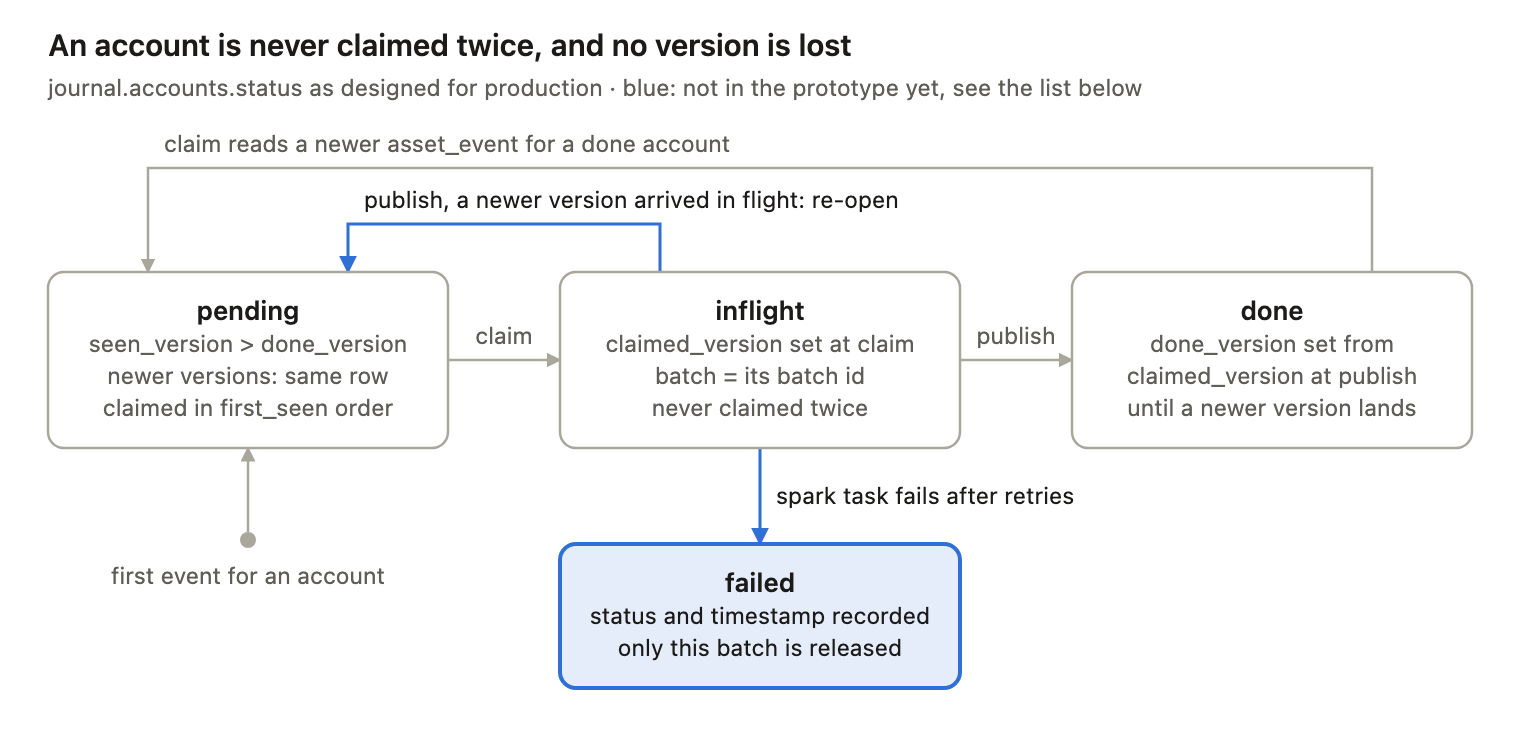
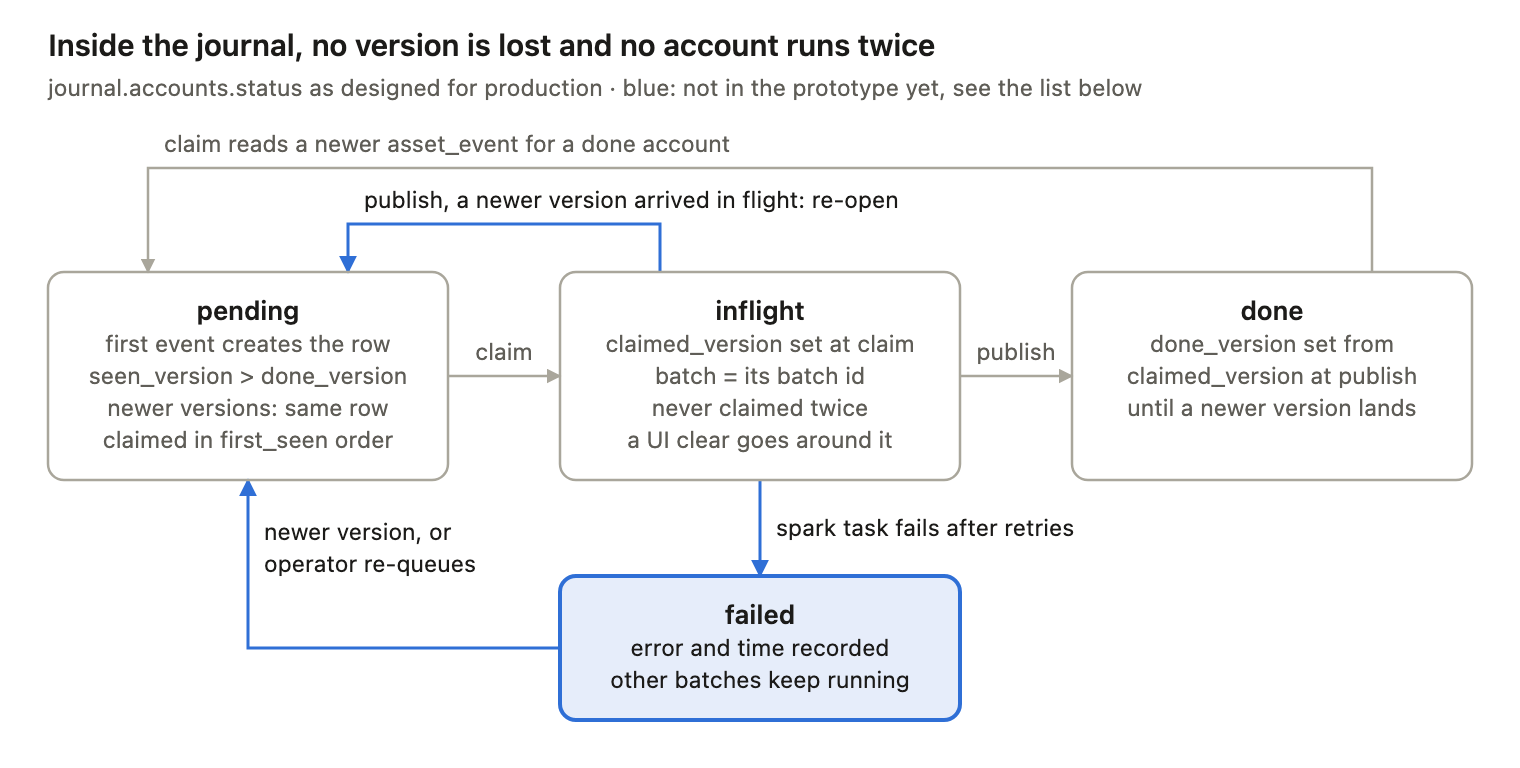
two-grains-one-bucket.md: apply the verified review (12 findings, each re-checked against logs, DB and source)
- wall 2: as shipped, 80,900 of 100,000 tasks succeeded but only 3,698 runs were marked done; the scheduler examines never-seen runs first, so finished runs starved while creation continued. Dropped the "about 2.8 h" extrapolation. Index and second scheduler changed together in 2b, so the index's own share is unmeasured.
- Path C still pays per key: up to 12 concurrent 500-key producers, 195 of 200 requests over 5 s, worst 38.5 s, 3 processes killed. "~900 keys per task" now scoped to one emitter on an empty table (about 700-950).
- watermark: an event is visible only at commit (up to 38 s after its timestamp), so the 5 s overlap can skip events; known gap.
- balance sheet listens to separate unkeyed assets; a keyed event never wakes a non-partitioned Dag on 3.3.
- per-account latency at 100k (p50 27 min, p95 37 min, dispatcher-bound); the engine was a sleep.
- failed state gets an exit (newer version or operator re-queue); a UI clear of a batch task goes around claim; both known gaps.
- 54,000-run story: the partitioned consumer was on the output asset, left on as a lineage check.
- E6 gate made per-date; run merging marked as read from source, not exercised; version-order evidence is concurrent producers (E2), not retries.
- throughput window, Kafka commit_offset default, row provenance (local DB, not committed), full batch ids.

diff --git a/docs/two-grains-one-bucket.md b/docs/two-grains-one-bucket.md
@@ -6,11 +6,11 @@ October 1, 2026 · a design note for review
 
 **Trigger at account granularity, execute at batch granularity, and put a leaky bucket between the two.** In Airflow terms: producers emit keyed `AssetEvent`s (`partition_key` = firm account), but no Dag subscribes to them per partition; a batcher Dag drains a journal table of pending accounts into mapped tasks capped by a pool; balance sheet stays on an OR schedule with a version-aware gate.
 
-The reason is the scheduler. Native account-grain partitions mean one `DagRun` per account, and the scheduler pays per run: 100,000 one-task runs cost 0.7 to 1.1 hours of scheduler time a day as a lower bound. As shipped, a 100,000-account test finished 3,698 runs in 26 minutes before it was stopped.
+The reason is the scheduler. Native account-grain partitions mean one `DagRun` per account, and the scheduler pays per run: 100,000 one-task runs cost 0.7 to 1.1 hours of scheduler time a day as a lower bound. As shipped, on one scheduler, a 100,000-account test was stopped after 26 minutes with only 3,698 runs marked finished: 80,900 of their tasks had succeeded, but the scheduler was busy creating and starting new runs. With three extra indexes and a second scheduler, all 100,000 finished in 31 minutes, about one scheduler-hour. MWAA's managed database does not let us add those indexes.
 
 This asks for two things. A decision to build the journal and a continuously running dispatcher, then test them on a firm MWAA environment. And two answers from the data side: what an absent account means in the positions feed, and where the list of accounts expected on a business date comes from.
 
-Everything here was measured on Airflow 3.3.2 with Postgres 16 and the LocalExecutor on a laptop. Nothing has run on MWAA yet, and the prototype has known gaps, listed in section 8.
+Everything here was measured on Airflow 3.3.2 with Postgres 16 and the LocalExecutor on a laptop. The engine was a stand-in: each Spark job in the prototype is a sleep of start-up time plus per-account time. Nothing has run on MWAA yet, and the prototype has known gaps, listed in section 8.
 
 ## 1. Vocabulary
 
@@ -39,7 +39,7 @@ Every later section uses these names. The table column is where the thing lives 
 
 ## 2. How Airflow 3.3 turns data into runs
 
-An asset update becomes a run by one of three paths, and the path depends on two things: whether the `AssetEvent` carries a `partition_key`, and whether any Dag subscribes to that asset per partition. All rows below are real rows from the test database.
+An asset update becomes a run by one of three paths, and the path depends on two things: whether the `AssetEvent` carries a `partition_key`, and whether any Dag subscribes to that asset per partition. All rows below are real rows, read from the local test database (Postgres) after the runs. They are not committed to the repository.
 
 ![One asset_event, three paths to a run](img/two-grains-paths.png)
 
@@ -71,7 +71,7 @@ The queue still holds two rows from the AND experiment. The consumer `exp_e2_con
 | 4 | exp\_e2\_consumer\_and | 2026-09-30 15:43:01 |
 | 2 | exp\_e2\_consumer\_and | 2026-09-30 15:43:31 |
 
-**Path B: keyed event, partitioned consumer (native account grain).** A keyed event writes no queue row. Instead, a Dag with `PartitionedAssetTimetable` gets one `asset_partition_dag_run` (APDR) row per key, a `partitioned_asset_key_log` (PAKL) row linking it to the event, and then one `DagRun` per key. One account `ACCT00000937` from the 100k test, followed through five tables:
+**Path B: keyed event, partitioned consumer (native account grain).** A keyed event writes no queue row. Instead, a Dag with `PartitionedAssetTimetable` gets one `asset_partition_dag_run` (APDR) row per key, a `partitioned_asset_key_log` (PAKL) row linking it to the event, and then one `DagRun` per key. Below, one account, `ACCT00000937`, is followed through five tables. It comes from the 100k run with the extra indexes and two schedulers (section 3, wall 2b); the as-shipped run's rows are no longer in the database.
 
 | Table | id | Key columns |
 | --- | --- | --- |
@@ -83,7 +83,7 @@ The queue still holds two rows from the AND experiment. The consumer `exp_e2_con
 
 Multiply by 100,000 accounts a day: 100,000 rows in each of these tables and 100,000 `DagRun`s for the scheduler to drive. Section 3 shows what that costs.
 
-**Path C: keyed event, no partitioned consumer (this design).** The api-server writes the `asset_event` rows and nothing else: no queue row, because the event is keyed; no APDR row, because nobody subscribes per partition. Airflow schedules nothing. The batcher Dag reads these rows on its own cadence.
+**Path C: keyed event, no partitioned consumer (this design).** The api-server writes the `asset_event` rows and nothing else: no queue row, because the event is keyed; no APDR row and no asset row lock, because nobody subscribes per partition. Airflow schedules nothing, and a Dag scheduled on the asset without `PartitionedAssetTimetable` gets no run either. The batcher Dag reads these rows on its own cadence. Each key is still one `asset_event` insert inside the producer's task-success request, so that request grows with the number of keys (section 4, producer cost).
 
 | `asset_event`.id | asset | partition\_key | extra | source\_dag\_id |
 | --- | --- | --- | --- | --- |
@@ -91,11 +91,11 @@ Multiply by 100,000 accounts a day: 100,000 rows in each of these tables and 100
 | 547609 | rev5\_positions | ACC100040 | `{"version": 1}` | rev5\_producer |
 | 547608 | rev5\_positions | ACC100039 | `{"version": 1}` | rev5\_producer |
 
-The rule that keeps Path C in place: no Dag may put `PartitionedAssetTimetable` on these assets. In the first 100k batcher test a per-partition test consumer was switched on and turned Path C back into Path B, creating 54,000 runs.
+The rule that keeps Path C in place: no Dag may put `PartitionedAssetTimetable` on any asset this design emits keyed events on, including the pnl output that `publish` writes. In the first 100k batcher test, a partitioned consumer on that output asset (`rev5_pnl_consumer`, left on as a lineage check) created one run per published account, 54,000 runs, on the same scheduler. The input events stayed on Path C. Airflow does not block such a Dag by default. A cluster policy (`dag_policy`) could reject it at parse time, but that was not tested.
 
 ## 3. Why one run per account fails at 100,000
 
-The scheduler pays per `DagRun`, and Path B gives it one per account. Three walls were measured; the second is the one no index removes.
+The scheduler pays per `DagRun`, and Path B gives it one per account. Three walls were measured. The per-run cost behind the second is the one no index removes.
 
 **The scheduler loop.** Each loop of `SchedulerJobRunner._do_scheduling` creates new `DagRun`s (for partitioned consumers, at most `MAX_PARTITION_DAG_RUNS_PER_LOOP` = 500 APDR rows per loop), examines up to `max_dagruns_per_loop_to_schedule` running `DagRun`s (default 20; the tests used 200), and moves ready `TaskInstance`s to queued inside a critical section. The executor runs in the same process and the same loop. Each look at a run schedules every task whose upstream is done, so the number of looks follows the longest chain of tasks:
 
@@ -108,9 +108,9 @@ A one-task run, which needs two looks, measured 25 to 40 ms of scheduler time in
 | Wall | Shape | Measured | Limit it hits |
 | --- | --- | --- | --- |
 | 1 | 100,000 mapped `TaskInstance`s in one `DagRun` | Expansion blocks the scheduler loop 315 s (10k: 60 s, 30k: 114 s); an upstream backport cuts 100k to 173 s | `scheduler_health_check_threshold` = 30 s; a health probe would restart the scheduler mid-transaction |
-| 2 | One `DagRun` per account (Path B), as shipped | 3,698 of 100,000 runs finished in 26 min, at 3 to 10 runs/s; about 2.8 h at the best rate | Per-run scheduler cost |
-| 2b | Same, with three hand-made indexes and two schedulers | All 100,000 finished in 31 min, about 110 runs/s | Needs DB access MWAA does not give |
-| 3 | Registering 500 keys in one task-success call | 3.6 s on an empty APDR table, 7.0 s at 64,000 rows; about 5 ms per key under an asset row lock | `[workers] execution_api_timeout` = 5 s; clients retry; at most about 900 keys per task |
+| 2 | One `DagRun` per account (Path B), as shipped | Stopped after 26 min: all 100,000 runs created and 80,900 of their tasks succeeded, but only 3,698 runs marked finished | Per-run scheduler cost on one scheduler. It looks at never-examined runs first, so while new runs kept arriving it did not get back to mark finished runs done |
+| 2b | Same, with three hand-made indexes and two schedulers | All 100,000 finished in 31 min, about 110 runs/s once run creation stopped | The index needs DB access MWAA does not give; the run also used a second scheduler |
+| 3 | Registering 500 keys in one task-success call | 3.6 s on an empty APDR table, 7.0 s at 64,000 rows; about 5 ms per key under an asset row lock | `[workers] execution_api_timeout` = 5 s; clients retry. One emitter on an empty table reaches 5 s at about 700 to 950 keys; at 64,000 rows even 500 keys do not fit |
 
 **Why wall 3 grows with the table.** For every emitted key, `AssetManager._get_or_create_apdr` looks up the latest APDR row for that key, and every scheduler loop scans for pending rows. On Airflow 3.3 neither query has an index. Measured on a fresh Postgres 16 database with 100,000 APDR rows, using the same ORM expressions as Airflow main:
 
@@ -178,7 +178,7 @@ rows in APDR   seconds per 500-key request   (█ = 0.25 s; the 5 s execution_ap
 
 In the live 100,000-key run the request passed the 5-second client timeout at about 36,000 rows, and clients began to time out and retry. The index, created online mid-run, brought the next request back to 3.9 s.
 
-The index fixes wall 3 and part of wall 2b, but MWAA's managed database does not let us add it, and it does nothing for wall 2: 100,000 runs still cost 100,000 runs of scheduler work.
+The index fixes wall 3, but MWAA's managed database does not let us add it. It does not remove wall 2: every run still costs scheduler work, and finishing 100,000 runs in 31 minutes also took a second scheduler. Wall 2b changed both at once, so the index's own share of that gain was not measured.
 
 ## 4. The design: two grains, one bucket
 
@@ -190,8 +190,10 @@ Three pieces: a producer that tags accounts on its events, a journal table that 
 @task(outlets=[POSITIONS])
 def land(params=None, *, outlet_events=None):
     outlet_events[POSITIONS].extra = {"version": int(params["version"])}
-    outlet_events[POSITIONS].add_partitions(list(params["accounts"]))   # <= ~900 keys per task
+    outlet_events[POSITIONS].add_partitions(list(params["accounts"]))   # 500 keys per task in the 100k test
 ```
+
+**Producer cost.** Path C has no APDR lookup and no asset lock, but each key is still written inside the producer's task-success request. In the 100k batcher test up to 12 producers registered 500 keys each at the same time. 195 of 200 of those requests took longer than the 5 s `execution_api_timeout` (median 11.5 s, worst 38.5 s), and clients sent 395 retries. 3 producer processes were killed, although every `TaskInstance` ended success and all 100,040 events landed. The 600-key `publish` requests took 2.4 to 12.1 s, and 102 of 140 passed 5 s. A safe number of keys per task with concurrent producers has not been measured.
 
 **Journal table (the bucket).** One row per account. Repeated versions of an account that arrive while it waits collapse into one row. Production needs `claimed_version`, which the prototype lacks (section 5).
 
@@ -213,8 +215,8 @@ Real rows from the 100k test, taken when the 40-minute window closed (84,000 don
 | account | status | seen\_version | done\_version | first\_seen | batch |
 | --- | --- | --- | --- | --- | --- |
 | ACC00001 | done | 1 | 1 | 20:02:43 |  |
-| ACC00167 | inflight | 1 | -1 | 20:07:00 | `scheduled__2026-09-30T20:45:00#1` |
-| ACC00170 | inflight | 1 | -1 | 20:07:09 | `scheduled__2026-09-30T20:45:00#5` |
+| ACC00167 | inflight | 1 | -1 | 20:07:00 | `scheduled__2026-09-30T20:45:00+00:00#1` |
+| ACC00170 | inflight | 1 | -1 | 20:07:09 | `scheduled__2026-09-30T20:45:00+00:00#5` |
 | ACC00178 | pending | 1 | -1 | 20:07:24 |  |
 
 **Batcher Dag (the dispatcher).** One `DagRun` per tick; inside it, `claim` returns a list of batches through XCom, one mapped `spark` task runs per batch on the `spark_jobs` pool, and one mapped `publish` task per batch closes it.
@@ -252,7 +254,7 @@ b_{sla} = \frac{target - S}{1/\lambda + p}
 | Run, retry and log every batch as a `TaskInstance` | `claim`: upsert from events, atomic claim, batch sizing |
 | Cap running batches with a pool of K slots | `publish`: mark done, emit lineage |
 | Wait on Glue or Spark without holding a worker (deferrable operators) | The rule that the journal holds no timing, dependency or retry logic |
-| UI, run history, clear and rerun of a batch | Cleanup of closed accounts |
+| UI and run history for every batch, and task retries while a batch is in flight | Cleanup of closed accounts |
 
 ## 5. Overlapping reruns, row by row
 
@@ -260,7 +262,7 @@ The journal answers the overlap question with three rules: an account in flight 
 
 ![Journal row lifecycle](img/two-grains-journal-states.png)
 
-<sub>journal.accounts row lifecycle · 4 states, 2 transitions still to build · vector: [two-grains-journal-states.svg](img/two-grains-journal-states.svg)</sub>
+<sub>journal.accounts row lifecycle · 4 states, 3 transitions still to build · vector: [two-grains-journal-states.svg](img/two-grains-journal-states.svg)</sub>
 
 <details><summary>Text version of this figure</summary>
 
@@ -269,15 +271,16 @@ The journal answers the overlap question with three rules: an account in flight 
 | (no row) | first event for an account | `pending` | yes |
 | `pending` | newer version read | `pending`, same row, `seen_version` rises | yes |
 | `pending` | `claim` (`FOR UPDATE SKIP LOCKED`) | `inflight`, `claimed_version` set | yes, without `claimed_version` |
-| `inflight` | newer version read | `inflight`, `seen_version` rises, never claimed twice | yes |
+| `inflight` | newer version read | `inflight`, `seen_version` rises, never claimed twice by `claim` | yes; a UI clear of a batch task goes around it |
 | `inflight` | `publish`, no newer version | `done`, `done_version` = `claimed_version` | yes |
 | `inflight` | `publish`, a newer version arrived in flight | `pending` (re-open) | **no**: the prototype marks it done |
-| `inflight` | spark task fails after retries | `failed`, status and timestamp recorded, only this batch released | **no**: the prototype returns every batch of the run to pending |
+| `inflight` | spark task fails after retries | `failed`, error and time recorded, other batches keep running | **no**: the prototype returns every batch of the run to pending |
+| `failed` | a newer version arrives, or an operator re-queues | `pending` | **no**: no failed state; the account is claimed again every tick |
 | `done` | `claim` reads a newer `asset_event` | `pending` | yes |
 
 </details>
 
-The two blue paths are the fixes listed under the scenario. Today the prototype marks an account done even when a newer version arrived in flight, and on a failure it returns every batch of the run to pending.
+The three blue paths are the fixes listed under the scenario. Today the prototype marks an account done even when a newer version arrived in flight. When one batch fails it returns every batch of the run to pending, and with no failed state a failing account is claimed again on every tick.
 
 The scenario: accounts 1, 2 and 3 are running in batch A; an adjustment for 3 and 4 arrives, then one for 4 and 5. Each cell shows the journal row for that account: status, then seen / claimed / done version. Accounts 1 and 2 only finish with batch A and are left out.
 
@@ -290,11 +293,11 @@ The scenario: accounts 1, 2 and 3 are running in batch A; an adjustment for 3 an
 | 4 | Batch A publishes (it computed version 1 of account 3) | fix: **pending** · 2 / 1 / **1** | inflight · 3 / 2 / 1 | claimed into batch C |
 | 5 | Batch B publishes (it computed version 2 of account 4) | claimed into batch D | fix: **pending** · 3 / 2 / **2** | inflight |
 
-- **Never twice at once.** Account 3 is in flight at step 1, so `claim` skips it; the row lock and the `inflight` status make that atomic across batcher runs.
+- **Never twice at once.** Account 3 is in flight at step 1, so `claim` skips it; the row lock and the `inflight` status make that atomic across batcher runs. This holds for work that claim dispatches. Clearing a spark or publish task in the Airflow UI goes around claim: the task reruns the account list stored in XCom, even if those accounts are now in flight in another batch, and in the prototype publish then marks them done whatever batch holds them. The fix passes the batch id to spark and publish, and both act only on rows still inflight under that id. To recompute accounts, return them to pending in the journal instead of clearing an old task. Not built yet.
 - **No head-of-line blocking.** Account 4 starts in batch B at step 2 while batch A is still running.
 - **Coalescing.** Had account 4 been pending when versions 2 and 3 arrived, they would have become one recompute on version 3.
 - **The prototype's gap.** At step 4 the prototype sets `done_version = seen_version`, writing 2 for account 3 although batch A computed version 1. Version 2 is then never computed. The fix records `claimed_version` at claim time, sets `done_version = claimed_version` at publish, and re-opens the row when `seen_version > done_version`. Not written or tested yet; this scenario is the proposed test case.
-- **Failures.** In the prototype, one failed batch returns every batch of its run to pending, including batches still running, which could compute an account twice. The fix releases only the failed batch and records `status = failed` with a timestamp.
+- **Failures.** In the prototype, one failed batch returns every batch of its run to pending, including batches still running, which could compute an account twice. The next `claim` then takes the failed accounts again with no limit, so an account that always fails is retried on every tick. The fix touches only the failed batch: its accounts move to `failed` with the error and a timestamp, and the other batches keep running. A failed account goes back to pending only when a version newer than the failed one arrives or an operator re-queues it. Retries stay with Airflow task retries, so the journal holds no retry logic. Not built yet.
 
 Throughput is the cost of rule one: account 3 waits for batch A even though its new version is known. With a continuously running dispatcher that wait is one batch duration (in the prototype's trickle runs, a 15 to 20 s job); with the prototype's one-minute cron it is up to a minute more.
 
@@ -303,19 +306,25 @@ Throughput is the cost of rule one: account 3 waits for batch A even though its 
 Balance sheet aggregates across accounts, so it uses no bucket: any input arrival wakes the Dag, and a gate task decides whether the business date can be computed and with which versions. A late version 2 of one input reruns the whole date with that version and the latest of everything else, which the native AND schedule cannot do (section 2, Path A).
 
 ```python
-@dag(schedule=(rates | fx | positions | cashflows), max_active_runs=1)
+@dag(schedule=(rates | fx | bs_positions | bs_cashflows), max_active_runs=1)
 def bs_pnl():
-    @task.short_circuit(inlets=[rates, fx, positions, cashflows])
-    def gate(inlet_events=None):
-        as_of = ...                                   # business date of the triggering event
-        latest = {name: max((e for e in inlet_events[a] if e.extra["as_of"] == as_of),
-                            key=lambda e: e.extra["version"], default=None)
-                  for name, a in INPUTS.items()}
-        return all(latest[n] for n in ("rates", "fx")) and any(latest[n] for n in ("positions", "cashflows"))
-    gate() >> calc()                                   # calc reads the chosen versions, emits bs_pnl_out
+    @task.short_circuit(inlets=[rates, fx, bs_positions, bs_cashflows])
+    def gate(inlet_events=None, triggering_asset_events=None):
+        dates = sorted({e.extra["as_of"] for evs in triggering_asset_events.values() for e in evs})
+        plans = []
+        for as_of in dates:                              # one run can carry several business dates
+            latest = {name: max((e for e in inlet_events[a] if e.extra["as_of"] == as_of),
+                                key=lambda e: e.extra["version"], default=None)
+                      for name, a in INPUTS.items()}
+            if all(latest[n] for n in ("rates", "fx")) and any(latest[n] for n in ("positions", "cashflows")):
+                plans.append({"as_of": as_of, "inputs": latest})
+        return plans                                     # empty list: calc is skipped
+    calc.expand(plan=gate())                             # one calc per ready date, emits bs_pnl_out
 ```
 
-The rule here is "all reference inputs (rates, fx) and at least one root input (positions, cashflows)". Every arrival creates a `DagRun`; `max_active_runs=1` makes arrivals during a run wait and merge into the next one. The real runs from the experiment, one per arrival:
+Balance sheet does not listen to the keyed positions asset that revenue uses. On Airflow 3.3 a keyed event writes no `asset_dag_run_queue` row, so it never starts a Dag without `PartitionedAssetTimetable` (in experiment E4 such a consumer got 0 runs). Balance sheet listens to separate unkeyed assets with one event per load, as the experiment did with `bs_root_positions` and `bs_root_cashflows`. This also keeps 100,000 keyed events a day out of the gate's `inlet_events` read.
+
+The rule here is "all reference inputs (rates, fx) and at least one root input (positions, cashflows)". In E6 every arrival got its own `DagRun`, because the driver waited for each run to finish before landing the next input. Airflow's source shows that arrivals landing while a run is active under `max_active_runs=1` wait and are released together as one later run, which can carry several business dates; E6 did not exercise that case. The gate above therefore checks each date separately. That per-date gate is in the repository but was written after the E6 run and has not run yet; the E6 run used a gate that took only the latest date. The real runs from the experiment, one per arrival:
 
 | Time | Event that woke the Dag | `gate` decision | `calc` | Output event `extra` |
 | --- | --- | --- | --- | --- |
@@ -330,7 +339,7 @@ The rule here is "all reference inputs (rates, fx) and at least one root input (
 
 Three details the gate has to get right, all learned in the experiments:
 
-- **Take the highest `extra.version`, not the last event.** `inlet_events[asset][-1]` is the last event registered, which a retried producer can make an older version.
+- **Take the highest `extra.version`, not the last event.** `inlet_events[asset][-1]` is the last event registered, and when producers run concurrently that need not be the newest version. In experiment E2, five concurrent producer runs registered v3 to v7 in the order v5, v7, v6, v4, v3, so \[-1\] returned v3.
 - **Page the event read.** `inlet_events` is unbounded; 10,000 events took 7.6 to 9.1 s, past the 5 s Execution API timeout. Read with `.after(watermark).limit(...)`.
 - **Skipped runs are the cost.** Eight runs, four of which computed; each is a `dag_run` row and a few `task_instance` rows. Fine at a few inputs per day, not at 100,000 accounts, which is why revenue uses the bucket.
 
@@ -372,21 +381,26 @@ Today the gate's decision exists only in its task log, and `claim` logs only cou
 
 ## 8. Measured, designed, open
 
-Nine of the claims in this doc were measured or simulated; two are known gaps in the prototype; two are designed but not built; five are open questions, two of which only the data side can answer. Evidence links go to the public test repository.
+Eleven of the claims in this doc were measured or simulated; five are known gaps in the prototype; two are designed but not built; five are open questions, two of which only the data side can answer. Evidence links go to the public test repository. The table rows quoted in sections 2, 4 and 7 come from the local test database, not from files in the repository.
 
 | Claim | Evidence | Status |
 | --- | --- | --- |
 | 100,000 mapped `TaskInstance`s in one `DagRun` block the scheduler loop 315 s | [REPORT §4.1](../REPORT.md) | Measured |
-| One `DagRun` per account as shipped: 3,698 of 100,000 finished in 26 min, 3 to 10 runs/s | [REPORT §4.2](../REPORT.md) | Measured |
+| One `DagRun` per account as shipped, one scheduler: stopped after 26 min with 3,698 of 100,000 runs marked finished while runs were still being created | [REPORT §4.2](../REPORT.md) | Measured |
 | Same with three hand-made indexes and two schedulers: 31 min | [REPORT §4.2a](../REPORT.md) | Measured |
-| Registering 500 keys: 3.6 s empty, 7.0 s at 64,000 APDR rows; about 900 keys per task at most | [REPORT §4.2](../REPORT.md) | Measured |
+| Registering 500 keys with one emitter (Path B): 3.6 s empty, 7.0 s at 64,000 APDR rows | [REPORT §4.2](../REPORT.md) | Measured |
 | 100,000 accounts as 100 batches of 1,000 in one `DagRun`: 38 s | [REPORT §4.5](../REPORT.md) | Measured |
-| Bucket at 100k: 84,000 of 100,040 published in 40 min; about 2,800 a minute against 13,000 of capacity | [dynamic-batching §5a](dynamic-batching.md) | Measured |
+| Bucket at 100k: 84,000 of 100,040 published when the 40-minute window closed. None before 20:15 while claim ingested the burst, then about 2,800 a minute. The stand-in engine (a sleep, K = 10) could take about 13,000 a minute | [dynamic-batching §5a](dynamic-batching.md) | Measured |
+| Per-account latency at 100k, input event to published event: p50 27 min, p95 37 min over the 84,000 published; the 16,040 not yet published would raise both. Engine slots were never the limit; slow claim ticks during ingestion and the one-minute cron were | dynamic-batching §5a; asset\_event timestamps | Measured |
+| Path C with up to 12 concurrent 500-key producers: 195 of 200 requests over the 5 s timeout, worst 38.5 s, 3 producer processes killed | api-server log of the 100k batcher test | Measured |
 | `claim` took 36 to 388 s per tick while 200 producers were registering keys | [dynamic-batching §5a](dynamic-batching.md) | Measured |
 | Engine start-up sets latency: 60 s start-up misses a 2-min burst p95 (best 7.2 min); about 10 s meets it | [dynamic-batching §2](dynamic-batching.md) | Simulated |
 | Balance sheet: OR schedule plus gate recomputes the date on a late version 2 | Section 6, experiment E6 | Measured |
 | A version arriving while its account is in flight is marked done without being computed | `ledger_pg.py` `done()`; section 5 | Known gap |
 | One failed batch releases every batch of its run, including running ones | `release` task; section 5 | Known gap |
+| The watermark read can skip an event that commits more than 5 s after its timestamp | claim in exp\_e5\_dynamic\_batcher.py; section 9 | Known gap |
+| A failed account is claimed again on every tick, with no limit | release task; section 5 | Known gap |
+| Clearing a batch task in the UI reruns its accounts outside claim, and publish marks them done whatever batch holds them | ledger\_pg.py done(); section 5 | Known gap |
 | Continuous dispatcher that claims as slots free up | [design-core §3](design-core.md) | Designed, not built |
 | Status view, reason column and failed state | Section 7 | Designed, not built |
 | Journal in RDS or DynamoDB, written from MWAA workers | Prototype used a schema in the local Postgres | Open question |
@@ -402,7 +416,7 @@ The batcher is a Kafka consumer in shape, and the half that comes for free is re
 | Kafka | This design |
 | --- | --- |
 | Keyed messages on a topic | `asset_event` rows with `partition_key` |
-| Consumer offset | Watermark: timestamp of the last event read, re-read with a 5 s overlap, advanced at `claim` before processing |
+| Consumer offset | Watermark: timestamp of the last event read, re-read with a 5 s overlap, advanced at `claim` before processing. Unlike an offset it can skip an event: a row becomes visible only when its producer's request commits, up to 38 s after its timestamp in the 100k test |
 | Kafka Streams KTable, latest value per key (log compaction alone is lazy; a live consumer still reads every version) | Journal row per account, coalesced on write |
 | Poll and batch | `claim` and batch sizing |
 | Pull pace (`max.poll.records`, `pause()`/`resume()`), parallelism bounded by partitions | Pool of K slots |
@@ -412,11 +426,11 @@ The batcher is a Kafka consumer in shape, and the half that comes for free is re
 | --- | --- | --- |
 | Native | Triggering, retries, deferrable waits on Spark or Glue, run history, UI, lineage; same platform as balance sheet; offered as MWAA | Offsets, consumer groups, millisecond delivery, per-key state through Kafka Streams |
 | We write | The journal and `claim` / `publish` | Launching and retrying engine jobs, recording what each batch ran, a UI, lineage |
-| Latency floor | About a minute in the prototype: trickle p95 77 s including a 15 to 20 s job | Milliseconds of delivery |
+| Latency floor | About a minute in a 60-account trickle run with K = 3: p95 77 s, each job a 15 to 20 s sleep standing in for the engine. At 100k the one-minute dispatcher set the pace: p95 37 min | Milliseconds of delivery |
 
-The millisecond advantage pays off only with a fast engine. In the simulator (a 10,000-account burst, then 1 account/s, K = 20) burst latency is set by engine capacity and trickle latency by engine start-up: with 60 s start-up the best burst p95 is 7.2 min whatever the message path; with about 10 s, SLA-sized batches meet 2 minutes in both phases.
+The millisecond advantage pays off only with a fast engine. In the simulator (a 10,000-account burst, then 1 account/s, K = 20) burst latency is set by engine capacity and trickle latency by engine start-up: with 60 s start-up the best burst p95 is 7.2 min whatever the message path; with about 10 s, SLA-sized batches meet 2 minutes in both phases. The prototype did not reach this. At 100k with 15 s start-up its p95 was 37 min, because the one-minute cron dispatcher set the pace, not engine capacity.
 
-A hybrid exists in principle. An `AssetWatcher` with the common.messaging provider's `MessageQueueTrigger` runs in the triggerer and wakes a Dag from Kafka, SQS, Redis pub/sub, Google Pub/Sub, Azure Service Bus or IBM MQ (Kinesis is merged but not released; MWAA 3.3.1 bundles Amazon provider 9.34.0). Two differences from the keyed path: a watcher's event carries no `partition_key`, so the account travels in `extra["payload"]`; and the Kafka trigger commits each offset before Airflow records the event, one message per trigger run. Not tried here, and not on MWAA.
+A hybrid exists in principle. An `AssetWatcher` with the common.messaging provider's `MessageQueueTrigger` runs in the triggerer and wakes a Dag from Kafka, SQS, Redis pub/sub, Google Pub/Sub, Azure Service Bus or IBM MQ (Kinesis is merged but not released; MWAA 3.3.1 bundles Amazon provider 9.34.0). Two differences from the keyed path: a watcher's event carries no `partition_key`, so the account travels in `extra["payload"]`; and by default the Kafka trigger commits each offset before Airflow records the event, one message per trigger run. The Kafka provider (1.13.0 and later) accepts commit\_offset=False through MessageQueueTrigger, which leaves the commit to downstream tasks. Not tried here, and not on MWAA.
 
 ## 10. Decisions and questions
 
@@ -425,7 +439,7 @@ Four decisions move this forward, and five questions need someone other than the
 **Decisions needed**
 
 - [ ] Revenue at account grain uses the two-grain design: keyed events, a journal, a batcher Dag; no one `DagRun` per account.
-- [ ] Next build: `claimed_version`, a `failed` state, a continuously running dispatcher, and the reason column; the overlap scenario in section 5 is the acceptance test.
+- [ ] Next build: `claimed_version`, a `failed` state, a continuously running dispatcher, the reason column, batch-id checks in publish, and a read position that cannot skip late commits; the overlap scenario in section 5 is the acceptance test.
 - [ ] Run it on a firm MWAA environment wired to the revenue demo, which answers the MWAA questions in section 8.
 - [ ] Where the journal lives (RDS table or DynamoDB with conditional writes) and who owns it.
 
